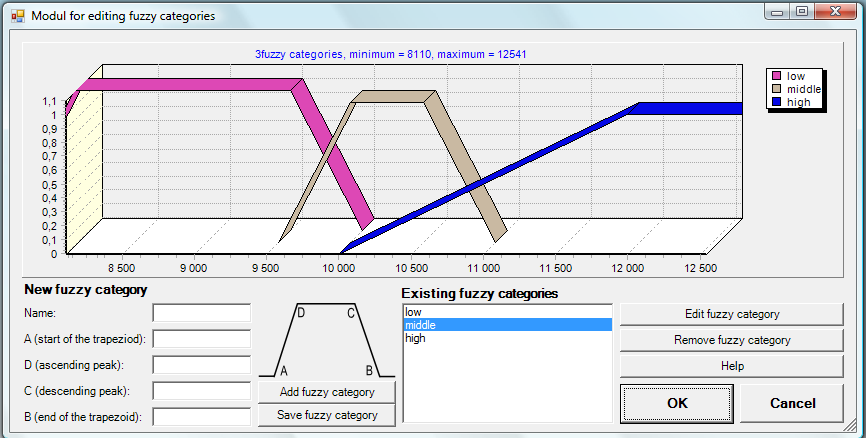
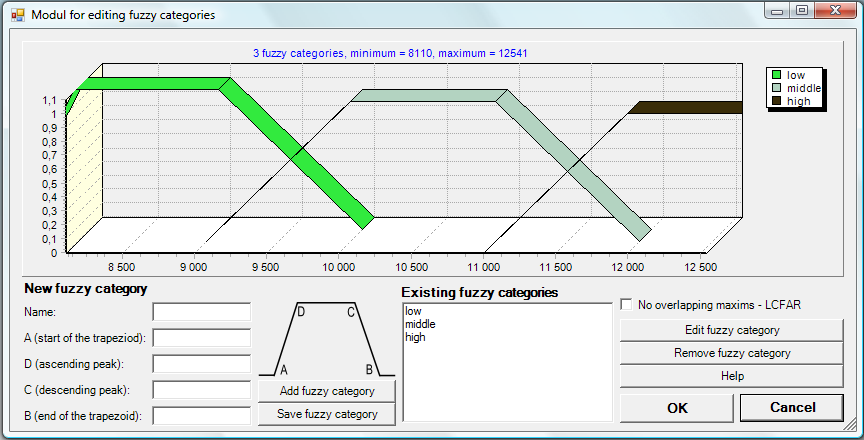
EditFuzzyCategories - progress

Changed region(s): [[0.0, 0.0, 1.0, 1.0]]

diff --git a/ferda/src/FrontEnd/AddIns/EditFuzzyCategories/MainWindow.cs b/ferda/src/FrontEnd/AddIns/EditFuzzyCategories/MainWindow.cs
@@ -313,28 +313,28 @@ namespace Ferda.FrontEnd.AddIns.EditFuzzyCategories
                 return;
             }
 
-            if (CHBLCFAR.Checked)
-            {
-                //checking that the maximum of the new trapezoid is not 
-                //overlapping with maximum of already created trapezoid
-                foreach (TrapezoidalFuzzySet set in fuzzySets.Values)
-                {
-                    if (d > set.D && d < set.C)
-                    {
-                        MessageBox.Show(resourceManager.GetString("Overlapping"),
-                            resourceManager.GetString("Error"),
-                            MessageBoxButtons.OK, MessageBoxIcon.Exclamation);
-                        return;
-                    }
-                    if (c < set.C && c > set.D)
-                    {
-                        MessageBox.Show(resourceManager.GetString("Overlapping"),
-                            resourceManager.GetString("Error"),
-                            MessageBoxButtons.OK, MessageBoxIcon.Exclamation);
-                        return;
-                    }
-                }
-            }
+            //if (CHBLCFAR.Checked)
+            //{
+            //    //checking that the maximum of the new trapezoid is not 
+            //    //overlapping with maximum of already created trapezoid
+            //    foreach (TrapezoidalFuzzySet set in fuzzySets.Values)
+            //    {
+            //        if (d > set.D && d < set.C)
+            //        {
+            //            MessageBox.Show(resourceManager.GetString("Overlapping"),
+            //                resourceManager.GetString("Error"),
+            //                MessageBoxButtons.OK, MessageBoxIcon.Exclamation);
+            //            return;
+            //        }
+            //        if (c < set.C && c > set.D)
+            //        {
+            //            MessageBox.Show(resourceManager.GetString("Overlapping"),
+            //                resourceManager.GetString("Error"),
+            //                MessageBoxButtons.OK, MessageBoxIcon.Exclamation);
+            //            return;
+            //        }
+            //    }
+            //}
 
             //filling a new trapeziodal fuzzy set structure
             TrapezoidalFuzzySet fs = new TrapezoidalFuzzySet();

diff --git a/ferda/src/FrontEnd/AddIns/EditFuzzyCategories/MyIce/EditFuzzyCategoriesIce.cs b/ferda/src/FrontEnd/AddIns/EditFuzzyCategories/MyIce/EditFuzzyCategoriesIce.cs
@@ -202,6 +202,8 @@ namespace Ferda.FrontEnd.AddIns.EditFuzzyCategories.MyIce
                 maximum = Convert.ToDouble(prop.stringValue);
             }
 
+            double[] distincts = GetDistincts(prx.getDistinctsAndFrequencies());
+
             StringT vbefore = (StringT)valueBefore;
             TrapezoidalFuzzySets fuzzySets = TrapezoidalFuzzySets.Deserialize(vbefore.stringValue);
 
@@ -210,11 +212,32 @@ namespace Ferda.FrontEnd.AddIns.EditFuzzyCategories.MyIce
 
             if (result == DialogResult.OK)
             {
+                //checking the LFCAR compatibility
+                if (wind.CHBLCFAR.Checked)
+                {
+                    //TODOOOOOO
+                }
+
                 vbefore.stringValue = TrapezoidalFuzzySets.Serialize(wind.GetSets());
                 return vbefore;
             }
 
             return valueBefore;
+        }
+
+        /// <summary>
+        /// Gets distinct values from distinct values and frequencies
+        /// </summary>
+        /// <param name="valuesAndFrequencies">The values and frequencies structure</param>
+        /// <returns>Distinct values</returns>
+        private double[] GetDistincts(ValuesAndFrequencies valuesAndFrequencies)
+        {
+            double [] result = new double[valuesAndFrequencies.data.Length];
+            for (int i = 0; i < valuesAndFrequencies.data.Length; i++)
+            {
+                result[i] = Convert.ToDouble(valuesAndFrequencies.data[i].value);
+            }
+            return result;
         }
 
         #endregion

diff --git a/ferda/src/FrontEnd/AddIns/EditFuzzyCategories/MainWindow.Designer.cs b/ferda/src/FrontEnd/AddIns/EditFuzzyCategories/MainWindow.Designer.cs
@@ -248,9 +248,9 @@
             this.CHBLCFAR.AutoSize = true;
             this.CHBLCFAR.Location = new System.Drawing.Point(610, 267);
             this.CHBLCFAR.Name = "CHBLCFAR";
-            this.CHBLCFAR.Size = new System.Drawing.Size(178, 17);
+            this.CHBLCFAR.Size = new System.Drawing.Size(120, 17);
             this.CHBLCFAR.TabIndex = 22;
-            this.CHBLCFAR.Text = "No overlapping maxims - LCFAR";
+            this.CHBLCFAR.Text = "LCFAR compatibility";
             this.CHBLCFAR.UseVisualStyleBackColor = true;
             // 
             // MainWindow
@@ -312,6 +312,6 @@
         private System.Windows.Forms.Button EditFCButton;
         private System.Windows.Forms.Button SaveFCButton;
         private System.Windows.Forms.Button HelpButton;
-        private System.Windows.Forms.CheckBox CHBLCFAR;
+        public System.Windows.Forms.CheckBox CHBLCFAR;
     }
 }

diff --git a/ferda/src/FrontEnd/AddIns/EditFuzzyCategories/Localization_cs-CZ.Designer.cs b/ferda/src/FrontEnd/AddIns/EditFuzzyCategories/Localization_cs-CZ.Designer.cs
@@ -223,7 +223,7 @@ namespace EditFuzzyCategories {
         }
         
         /// <summary>
-        ///   Looks up a localized string similar to Nepřekrývající se maxima  - LCFAR.
+        ///   Looks up a localized string similar to LCFAR kompatibilita.
         /// </summary>
         internal static string LCFAR {
             get {

diff --git a/ferda/src/FrontEnd/AddIns/EditFuzzyCategories/Localization_en-US.Designer.cs b/ferda/src/FrontEnd/AddIns/EditFuzzyCategories/Localization_en-US.Designer.cs
@@ -223,7 +223,7 @@ namespace EditFuzzyCategories {
         }
         
         /// <summary>
-        ///   Looks up a localized string similar to No overlapping maxims - LCFAR.
+        ///   Looks up a localized string similar to LCFAR compatibility.
         /// </summary>
         internal static string LCFAR {
             get {
